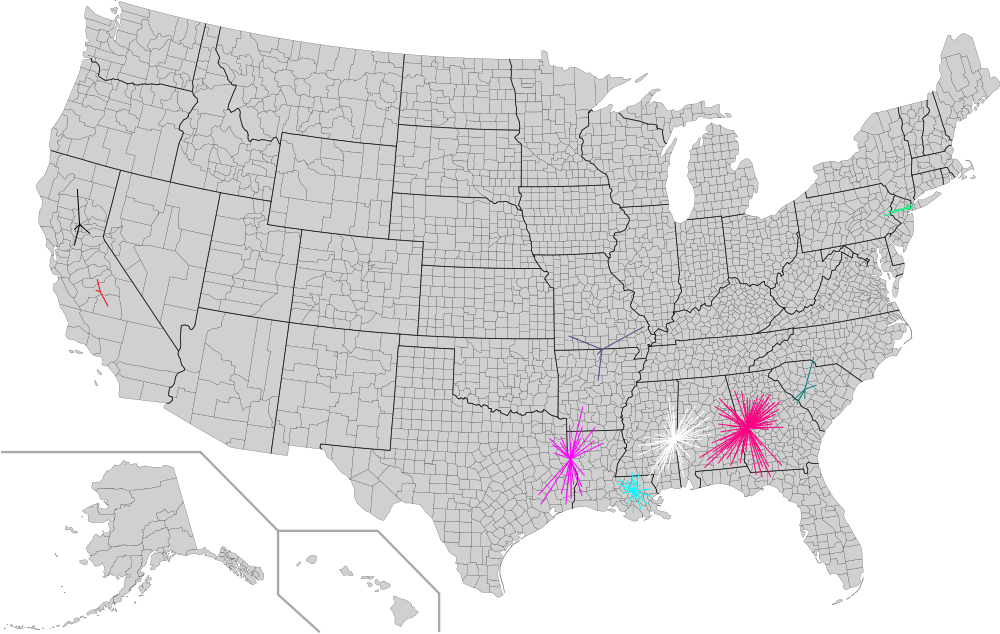
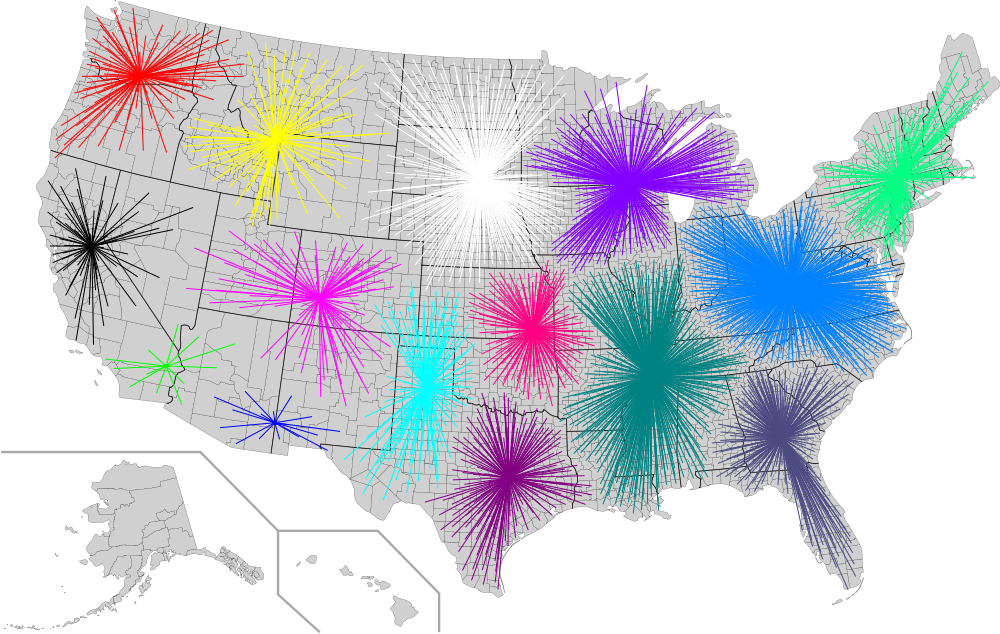
Risolta rappresentazione in caso di cluster con un elemento solo

diff --git a/esercizio4/svoglimento/algorithms/hierarchical.js b/esercizio4/svoglimento/algorithms/hierarchical.js
@@ -1,6 +1,13 @@
 const Cluster = require("../models/cluster");
 
 module.exports = class Hierarchical {
+    static get _DEBUG () { return false}
+
+    /**
+     *
+     * @param {Array<Contea>}dataset il dataset in cui si vuole operare
+     * @param {number}k il numero di cluster in cui raggruppare i dati del dataset
+     */
     constructor(dataset,k) {
         this.dataset = dataset;
         this.k = k;
@@ -17,13 +24,7 @@ module.exports = class Hierarchical {
             this.clusters[i] = new Cluster();
             this.clusters[i].add(contee[i]);
         }
-        const label = "100 cluster";
-        console.time(label);
         while(this.clusters.length > this.k) {
-            if(this.clusters.length % 100 === 0) {
-                console.timeEnd(label);
-                console.time(label);
-            }
             const ij = this._argmin();
 
             if(ij[0] === -1 || ij[1] === -1) {
@@ -63,20 +64,21 @@ module.exports = class Hierarchical {
             return this.clusters[a].center().y - this.clusters[b].center().y;
         });
 
-        const dijS = this._slowClosestPair(this.clusters);
         const dijF = this._fastClosestPair(this.clusters,S);
-        if((dijS[1] !== dijF[1] || dijS[2] !== dijF[2]) &&
-            (dijS[2] !== dijF[1] || dijS[1] !== dijF[2])) {
-            console.log("ERRORE!!!");
-            console.log("slow: " + dijS + " reale " + this.clusters[dijS[1]].distance(this.clusters[dijS[2]]));
-            console.log(this.clusters[dijS[1]].toString());
-            console.log(this.clusters[dijS[2]].toString());
-            console.log("fast: " + dijF + " reale " + this.clusters[dijF[1]].distance(this.clusters[dijF[2]]));
-            console.log(this.clusters[dijF[1]].toString());
-            console.log(this.clusters[dijF[2]].toString());
-            process.exit();
+        if(Hierarchical._DEBUG) {
+            const dijS = this._slowClosestPair(this.clusters);
+            if ((dijS[1] !== dijF[1] || dijS[2] !== dijF[2]) &&
+                (dijS[2] !== dijF[1] || dijS[1] !== dijF[2])) {
+                console.log("ERRORE!!!");
+                console.log("slow: " + dijS + " reale " + this.clusters[dijS[1]].distance(this.clusters[dijS[2]]));
+                console.log(this.clusters[dijS[1]].toString());
+                console.log(this.clusters[dijS[2]].toString());
+                console.log("fast: " + dijF + " reale " + this.clusters[dijF[1]].distance(this.clusters[dijF[2]]));
+                console.log(this.clusters[dijF[1]].toString());
+                console.log(this.clusters[dijF[2]].toString());
+                process.exit();
+            }
         }
-
         return [
             dijF[1],
             dijF[2]

diff --git a/esercizio4/svoglimento/utils/plotter.js b/esercizio4/svoglimento/utils/plotter.js
@@ -5,24 +5,26 @@ module.exports = class Plotter {
     static get OUTPUT_DIR() { return "./outputs/" };
     static get MAP_IMAGE_PATH() { return "./assets/map.png" };
 
+    static get _COLORS_OPACITY () {return 1;}
+
     static get COLORS() {
         return [
-            "rgba(0,0,0,1)",
-            "rgba(255,0,0,1)",
-            "rgba(0,255,0,1)",
-            "rgba(0,0,255,1)",
-            "rgba(255,255,0,1)",
-            "rgba(255,0,255,1)",
-            "rgba(0,255,255,1)",
-            "rgba(255,255,255,1)",
-            "rgba(130,0,130,1)",
-            "rgba(255,0,130,1)",
-            "rgba(130,0,255,1)",
-            "rgba(0,130,130,1)",
-            "rgba(0,130,255,1)",
-            "rgba(0,255,130,1)",
-            "rgba(75,75,130,1)",
-            "rgba(255,75,75,1)",
+            "rgba(0,0,0,"+Plotter._COLORS_OPACITY+")",
+            "rgba(255,0,0,"+Plotter._COLORS_OPACITY+")",
+            "rgba(0,255,0,"+Plotter._COLORS_OPACITY+")",
+            "rgba(0,0,255,"+Plotter._COLORS_OPACITY+")",
+            "rgba(255,255,0,"+Plotter._COLORS_OPACITY+")",
+            "rgba(255,0,255,"+Plotter._COLORS_OPACITY+")",
+            "rgba(0,255,255,"+Plotter._COLORS_OPACITY+")",
+            "rgba(255,255,255,"+Plotter._COLORS_OPACITY+")",
+            "rgba(130,0,130,"+Plotter._COLORS_OPACITY+")",
+            "rgba(255,0,130,"+Plotter._COLORS_OPACITY+")",
+            "rgba(130,0,255,"+Plotter._COLORS_OPACITY+")",
+            "rgba(0,130,130,"+Plotter._COLORS_OPACITY+")",
+            "rgba(0,130,255,"+Plotter._COLORS_OPACITY+")",
+            "rgba(0,255,130,"+Plotter._COLORS_OPACITY+")",
+            "rgba(75,75,130,"+Plotter._COLORS_OPACITY+")",
+            "rgba(255,75,75,"+Plotter._COLORS_OPACITY+")",
         ]
     }
 
@@ -40,10 +42,12 @@ module.exports = class Plotter {
                     const center = cluster.center();
                     cluster.points.forEach((point) => {
                         Plotter._disegnaLinea(ctx,center,point,Plotter.COLORS[i]);
+                        Plotter._disegnaCentro(ctx,center,Plotter.COLORS[i]);
                     });
                 });
 
                 await Plotter._save(canvas,fileName+".png");
+                resolve();
            }
            catch(e) {
                console.log(e);
@@ -58,6 +62,12 @@ module.exports = class Plotter {
         ctx.moveTo(da.x,da.y);
         ctx.lineTo(a.x,a.y);
         ctx.stroke();
+    }
+    static _disegnaCentro(ctx,punto,colore) {
+        ctx.fillStyle = colore;
+        ctx.beginPath();
+        ctx.arc(punto.x, punto.y, 2, 0, 2 * Math.PI, true);
+        ctx.fill();
     }
 
     static async _loadImage() {

diff --git a/esercizio4/svoglimento/index.js b/esercizio4/svoglimento/index.js
@@ -24,12 +24,30 @@ async function main() {
 }
 
 async function beginAlgorithm() {
-    const firstAnswer = (new Hierarchical(datasets[212],15,5)).clustering();
-    Plotter.disegnaCluster(firstAnswer,"risposta_1");
-
+    //Primo blocco di risposte
+    logSeparator();
+    //Risposta 1
+    console.time("Risposta 1");
+    const risposta1 = (new Hierarchical(datasets[3107],15)).clustering();
+    console.timeEnd("Risposta 1");
+    Plotter.disegnaCluster(risposta1,"risposta_1");
     //Risposta 2
-    const secondAnswer = (new KMeans(datasets[3107],15,5)).clustering();
-    Plotter.disegnaCluster(secondAnswer,"risposta_2");
+    console.time("Risposta 2");
+    const risposta2 = (new KMeans(datasets[3107],15,5)).clustering();
+    console.timeEnd("Risposta 2");
+    Plotter.disegnaCluster(risposta2,"risposta_2");
+    //Secondo blocco di risposte
+    logSeparator();
+    //Risposta 4
+    console.time("Risposta 4");
+    const risposta4 = (new Hierarchical(datasets[212],9)).clustering();
+    console.timeEnd("Risposta 4");
+    Plotter.disegnaCluster(risposta4,"risposta_4");
+    //Risposta 5
+    console.time("Risposta 5");
+    const risposta5 = (new KMeans(datasets[212],9,5)).clustering();
+    console.timeEnd("Risposta 5");
+    Plotter.disegnaCluster(risposta5,"risposta_5");
 }
 
 function logSeparator() {
